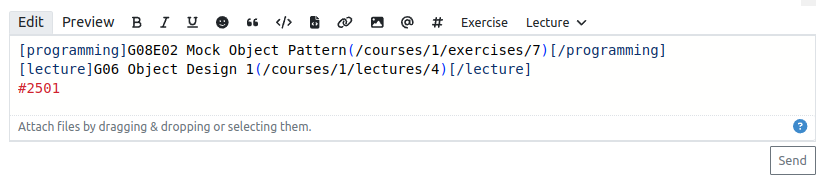
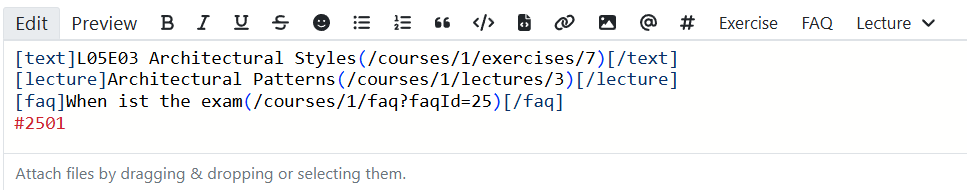
Development: Add FAQ documentation (#10531)

diff --git a/docs/user/faqs.rst b/docs/user/faqs.rst
@@ -1,0 +1,68 @@
+.. _faqs:
+
+FAQs
+===============
+
+.. contents:: Content of this document
+    :local:
+    :depth: 2
+
+Overview
+--------
+Artemis facilitates the coordination of FAQs in a course. FAQs are frequently asked questions. FAQs help to streamline information retrieval by providing quick answers to common questions.
+
+Setting up FAQs an Instructor
+-----------------------------------------------
+
+FAQs can be managed by instructors by navigating to the course's  ``FAQ`` page in the course administration section.
+
+Before the faq feature can be used, one configurations need to be set up:
+
+|faq-course-card|
+
+* **Enable FAQs:** Instructor must enable the FAQs feature in the course settings.
+
+
+|enable-screen|
+
+FAQ Management
+-----------------------------------------------
+FAQ overview
+^^^^^^^^^^^^^^^^^^^^^^^^
+The overview screen consists of a search and filter bar, a table with all FAQs, and a button to create a new FAQ. If the IRIS Feature is enabled, there is also a button to ingest all FAQs into IRIS. This allows the virtual tutor to use the FAQ content in responses.
+
+|overview-screen|
+
+Each FAQ in the table consists of five columns. The first two contain the FAQ's title and corresponding answer. The third column displays the current status of the FAQ, while the last column provides users with buttons to interact with the FAQs. Depending on their role, users may see up to four buttons.
+
+Instructors can edit or delete any FAQ. Additionally, they can approve or reject FAQs with the status PROPOSED.
+Tutors can only propose new FAQs and update FAQs that are in the PROPOSED status.
+
+Creating FAQs
+^^^^^^^^^^^^^^^^^^^^^^^^
+FAQs can be created manually. Each FAQ consists of a question and an answer. The question is displayed as a heading and the answer is displayed as a paragraph. The title is a plain text box, while the answer supports the entire markdown editor feature of Artemis.
+|creation-screen|
+
+Additional IRIS features.
+
+If Iris is enabled, users can automatically refine FAQs using an additional Markdown action. This feature scans FAQs for grammatical errors and suggests improvements, allowing users to review the changes. It automatically inserts the improved text into the answer field. The action is in the AI section of the previous image.
+
+FAQ Overview
+-----------------------------------------------
+Student Overview of FAQs
+^^^^^^^^^^^^^^^^^^^^^^^^
+In the student overview, only ACCEPTED FAQ are shown. Students can search for FAQs and filter them by status. They can also view the details of each FAQ by clicking on the title. The details page displays the question and answer of the FAQ.
+|student-screen|
+
+
+.. |faq-course-card| image:: communication/faq/faq-course-card.png
+    :width: 1000
+.. |enable-screen| image:: communication/faq/enable-screen.png
+    :width: 1000
+.. |overview-screen| image:: communication/faq/overview-screen.png
+    :width: 1000
+.. |creation-screen| image:: communication/faq/creation-screen.png
+        :width: 1000
+.. |student-screen| image:: communication/faq/student-screen.png
+    :width: 1000
+

diff --git a/docs/user/markdown-support.rst b/docs/user/markdown-support.rst
@@ -30,7 +30,7 @@ The user can switch to a preview of the formatted content by clicking on the Pre
 Markdown Extensions For Communication
 ^^^^^^^^^^^^^^^^^^^^^^^^^^^^^^^^^^^^^
 
-Markdown is also supported in the context of :ref:`communicating<communication>` with other users. Here, the Markdown syntax is extended to allow users to reference other messages, lectures, or exercises.
+Markdown is also supported in the context of :ref:`communicating<communication>` with other users. Here, the Markdown syntax is extended to allow users to reference other messages, lectures, exercises or FAQs.
 
 |markdown-post-extensions|
 

diff --git a/docs/index.rst b/docs/index.rst
@@ -27,6 +27,7 @@ All these exercises are supposed to be run either live in the lecture with insta
    user/lectures
    user/exam_mode
    user/communication
+   user/faqs
    user/tutorialgroups
    user/plagiarism-check
    user/learning-analytics
